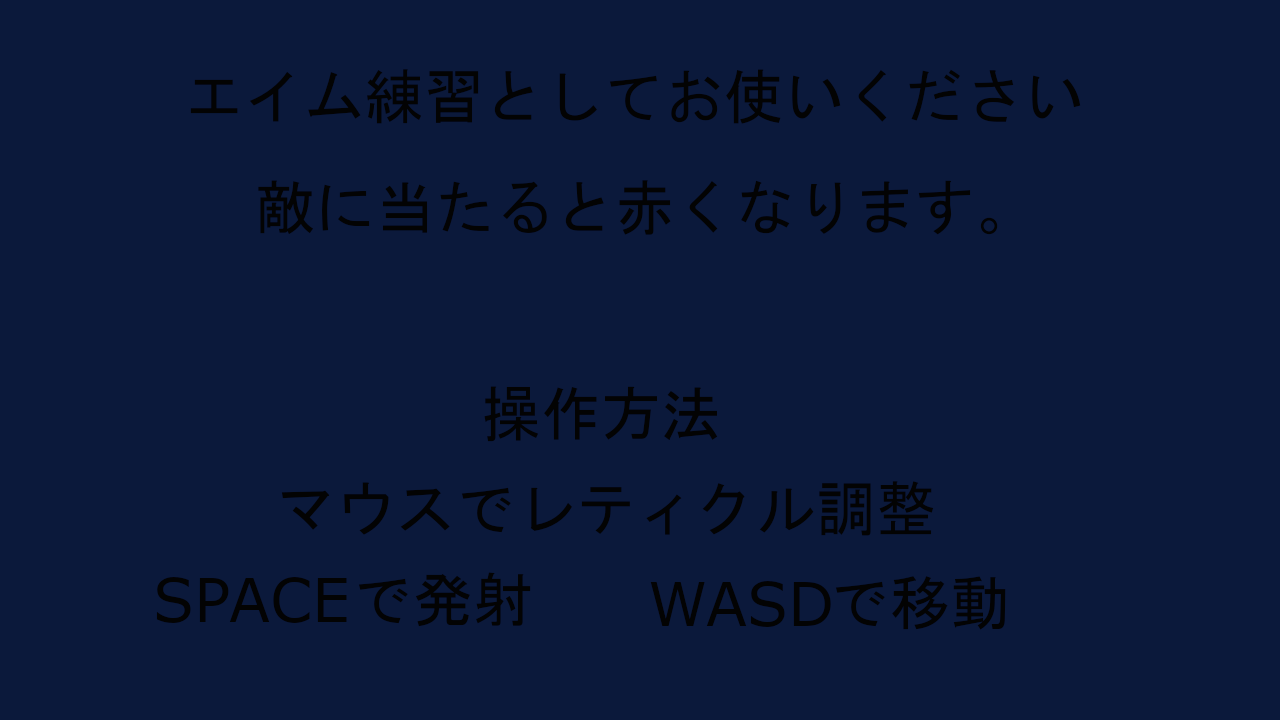
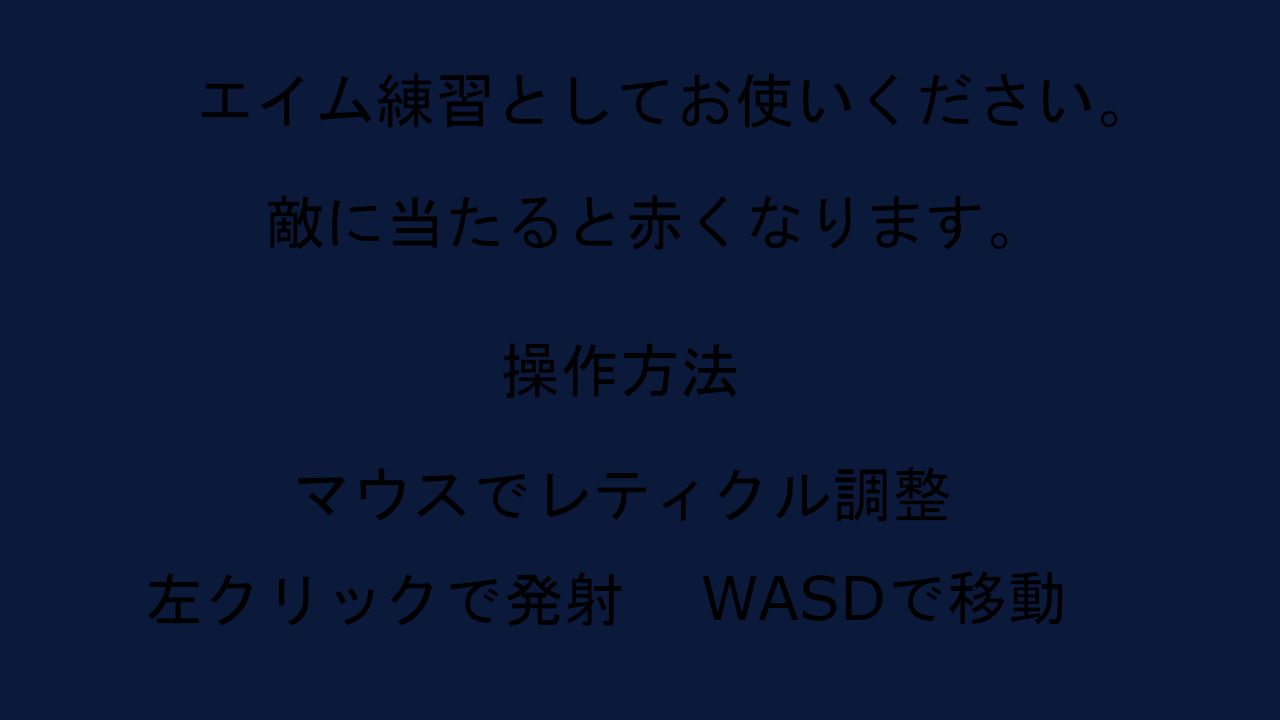
ほぼ完成

diff --git a/Player.cpp b/Player.cpp
@@ -93,19 +93,19 @@ void Player::Update(ViewProjection& viewProjection) {
 		return false;
 	});
 
-	//矢印キー
-	if (input_->PushKey(DIK_LEFT)) {
-		move.x -= kcharacterSpeed;
-	} 
-	else if (input_ -> PushKey(DIK_RIGHT)) {
-		move.x += kcharacterSpeed;
-	} 
-	else if (input_->PushKey(DIK_UP)) {
-		move.y += kcharacterSpeed;
-	} 
-	else if (input_->PushKey(DIK_DOWN)) {
-		move.y -= kcharacterSpeed;
-	}
+	////矢印キー
+	//if (input_->PushKey(DIK_LEFT)) {
+	//	move.x -= kcharacterSpeed;
+	//} 
+	//else if (input_ -> PushKey(DIK_RIGHT)) {
+	//	move.x += kcharacterSpeed;
+	//} 
+	//else if (input_->PushKey(DIK_UP)) {
+	//	move.y += kcharacterSpeed;
+	//} 
+	//else if (input_->PushKey(DIK_DOWN)) {
+	//	move.y -= kcharacterSpeed;
+	//}
 
 	//WASD
 	if (input_->PushKey(DIK_A)) {
@@ -198,7 +198,7 @@ void Player::DrawUI() { sprite2DReticle_->Draw();}
 
 //攻撃　　後に右クリックにする　
 void Player::Attack() {
-	if (input_->TriggerKey(DIK_SPACE)) {
+	if (input_->IsTriggerMouse(0)) {
 
 		const float kBulletSpeed = 1.0f;
 		Vector3 velocity(0, 0, kBulletSpeed);

diff --git a/main.cpp b/main.cpp
@@ -115,7 +115,7 @@ int WINAPI WinMain(HINSTANCE, HINSTANCE, LPSTR, int) {
 			dxCommon->PostDraw();
 
 			//シーン切り替えボタン
-			if (input->PushKey(DIK_SPACE)) {
+			if (input->TriggerKey(DIK_SPACE)) {
 				Num = setumei;
 			}
 			break;
@@ -149,7 +149,7 @@ int WINAPI WinMain(HINSTANCE, HINSTANCE, LPSTR, int) {
 			dxCommon->PostDraw();
 
 			// シーン切り替えボタン
-			if (input->PushKey(DIK_A)) {
+			if (input->TriggerKey(DIK_SPACE)) {
 				Num = game;
 			}
 
